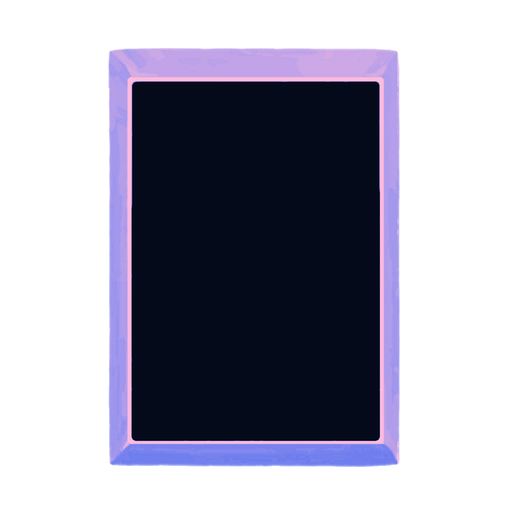
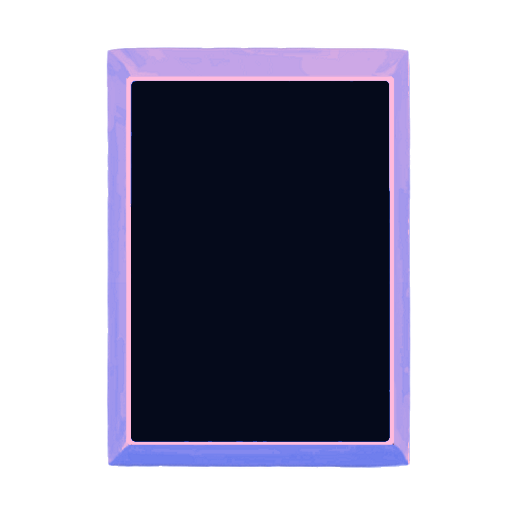
Dead Cells packmaster pack

Changed region(s): [[0.2188, 0.0938, 0.8125, 0.9375], [0.1875, 0.0938, 0.2812, 0.9062]]

diff --git a/src/main/java/thePackmaster/powers/cellspack/HokutoPower.java b/src/main/java/thePackmaster/powers/cellspack/HokutoPower.java
@@ -3,8 +3,6 @@ package thePackmaster.powers.cellspack;
 import com.megacrit.cardcrawl.core.AbstractCreature;
 import com.megacrit.cardcrawl.core.CardCrawlGame;
 import com.megacrit.cardcrawl.dungeons.AbstractDungeon;
-import com.megacrit.cardcrawl.localization.PowerStrings;
-import thePackmaster.SpireAnniversary5Mod;
 import thePackmaster.actions.highenergypack.AllEnemyApplyPowerAction;
 import thePackmaster.powers.AbstractPackmasterPower;
 import thePackmaster.powers.summonspack.JinxPower;

diff --git a/src/main/java/thePackmaster/cards/downfallpack/DefensiveMode.java b/src/main/java/thePackmaster/cards/downfallpack/DefensiveMode.java
@@ -22,7 +22,6 @@ public class DefensiveMode extends AbstractDownfallCard {
     public void use(AbstractPlayer p, AbstractMonster m) {
         blck();
         applyToSelf(new WeakPower(p, magicNumber, false));
-
     }
 
     public void upp() {
